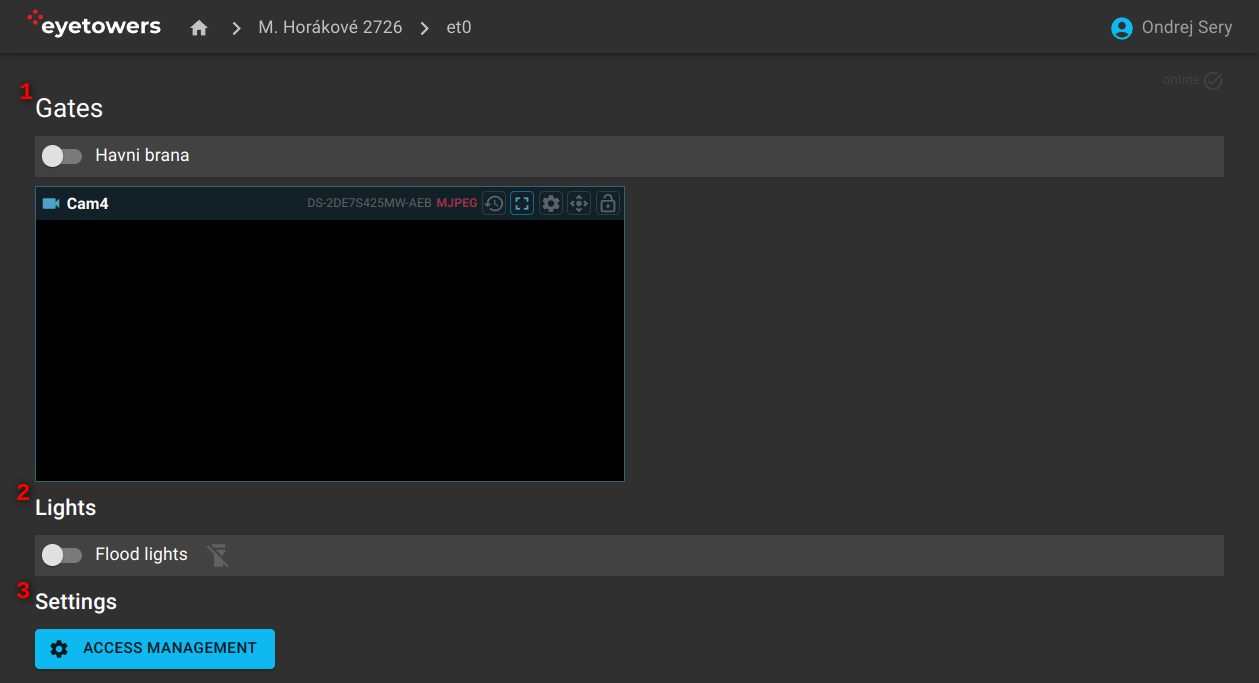
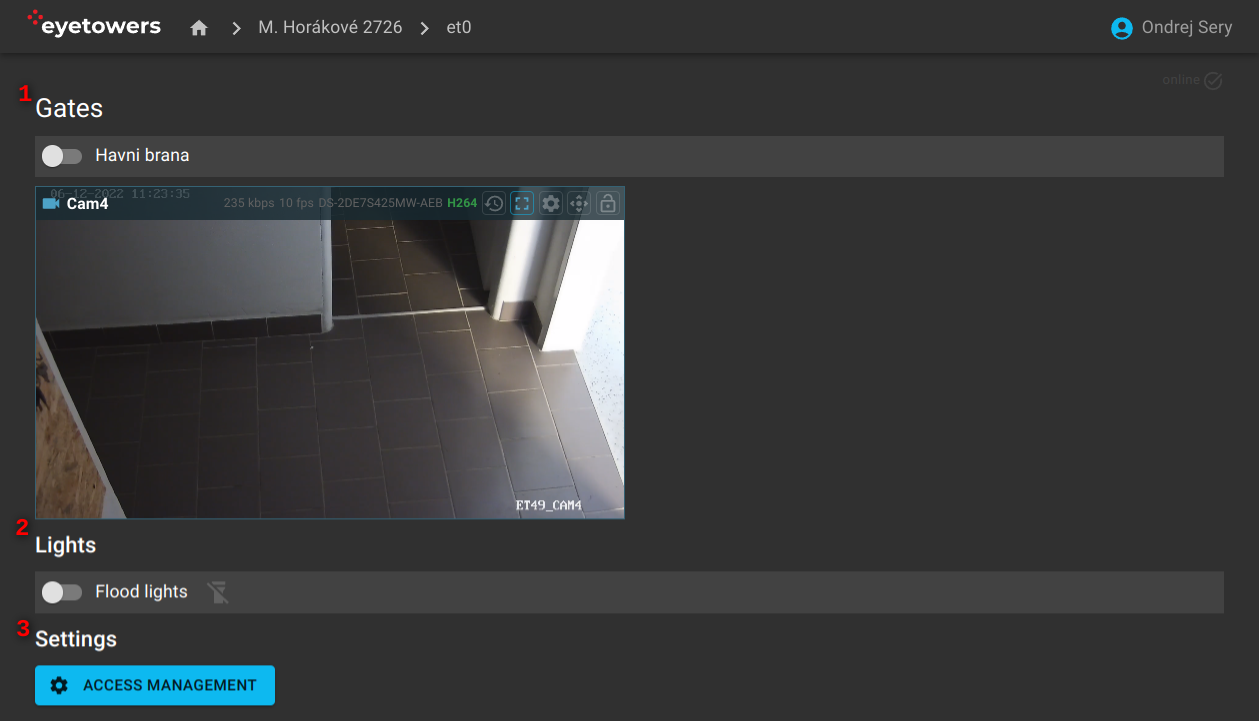
Add access overview page.

diff --git a/cs/access.md b/cs/access.md
@@ -1,0 +1,8 @@
+# Přístup
+
+Stránka přehledu přístupu obsahuje seznam ovládatelných přístupových bodů, např. brána, vrata, dveře
+s ovládacím prvkem pro jejich otevření/zavření (1). Tam kde jsou přítomny, se zobrazí i kamery
+zabírající daný vstup. Dále zde lze ovládat osvětlení jednotky pro zlepšení viditelnosti (2). Pokud
+je aktivován, je zde i odkaz na administrativní rozhraní samotného přístupového systému (3).
+
+![Stránka přístupu](../_media/access_overview.png)

diff --git a/en/access.md b/en/access.md
@@ -1,0 +1,8 @@
+# Access
+
+The access overview page contains the list of entrances, e.g., a gate or a door, with a control
+element that allows to open/close them (1). Where present, the list also views camera(s) pointed at
+the entrance. It is also possible to control the unit flood lights here (2). If activated, there is
+also a link to the actual access management system (3).
+
+![Access Page](../_media/access_overview.png)
